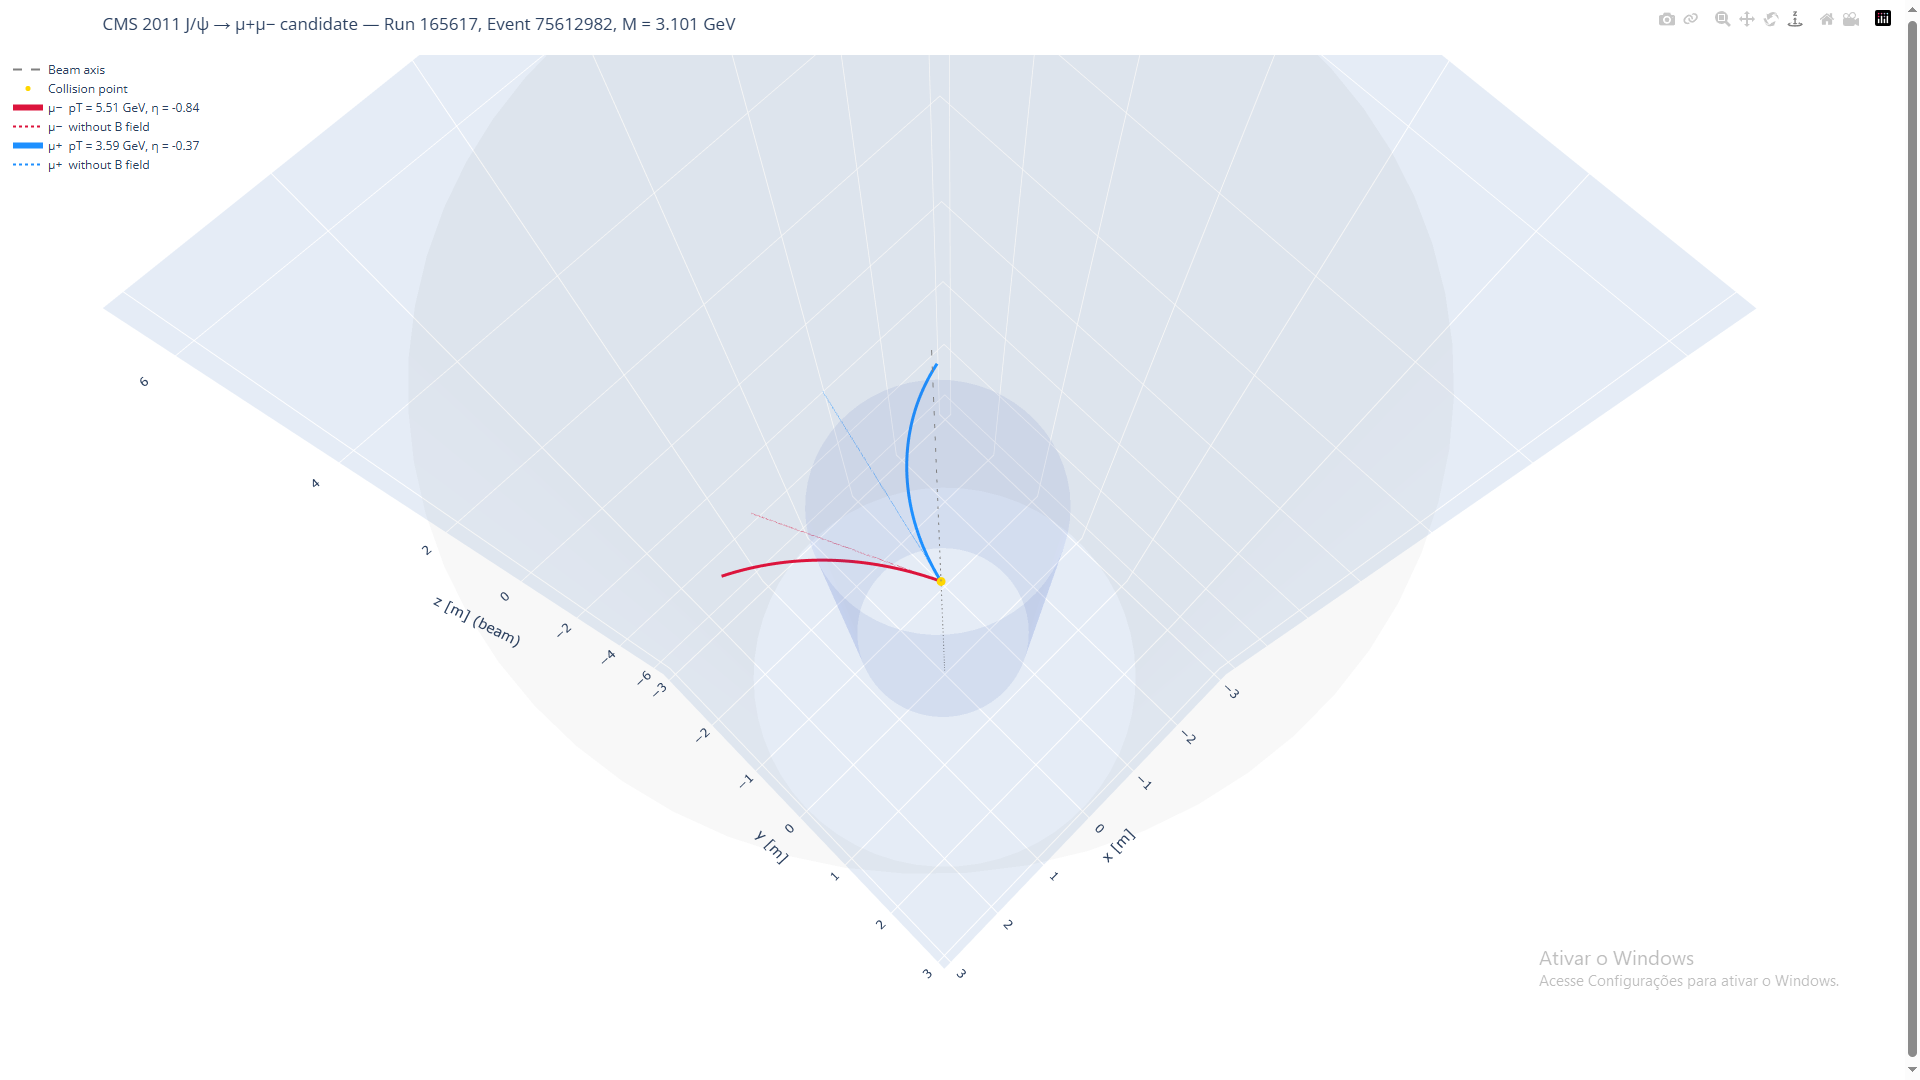
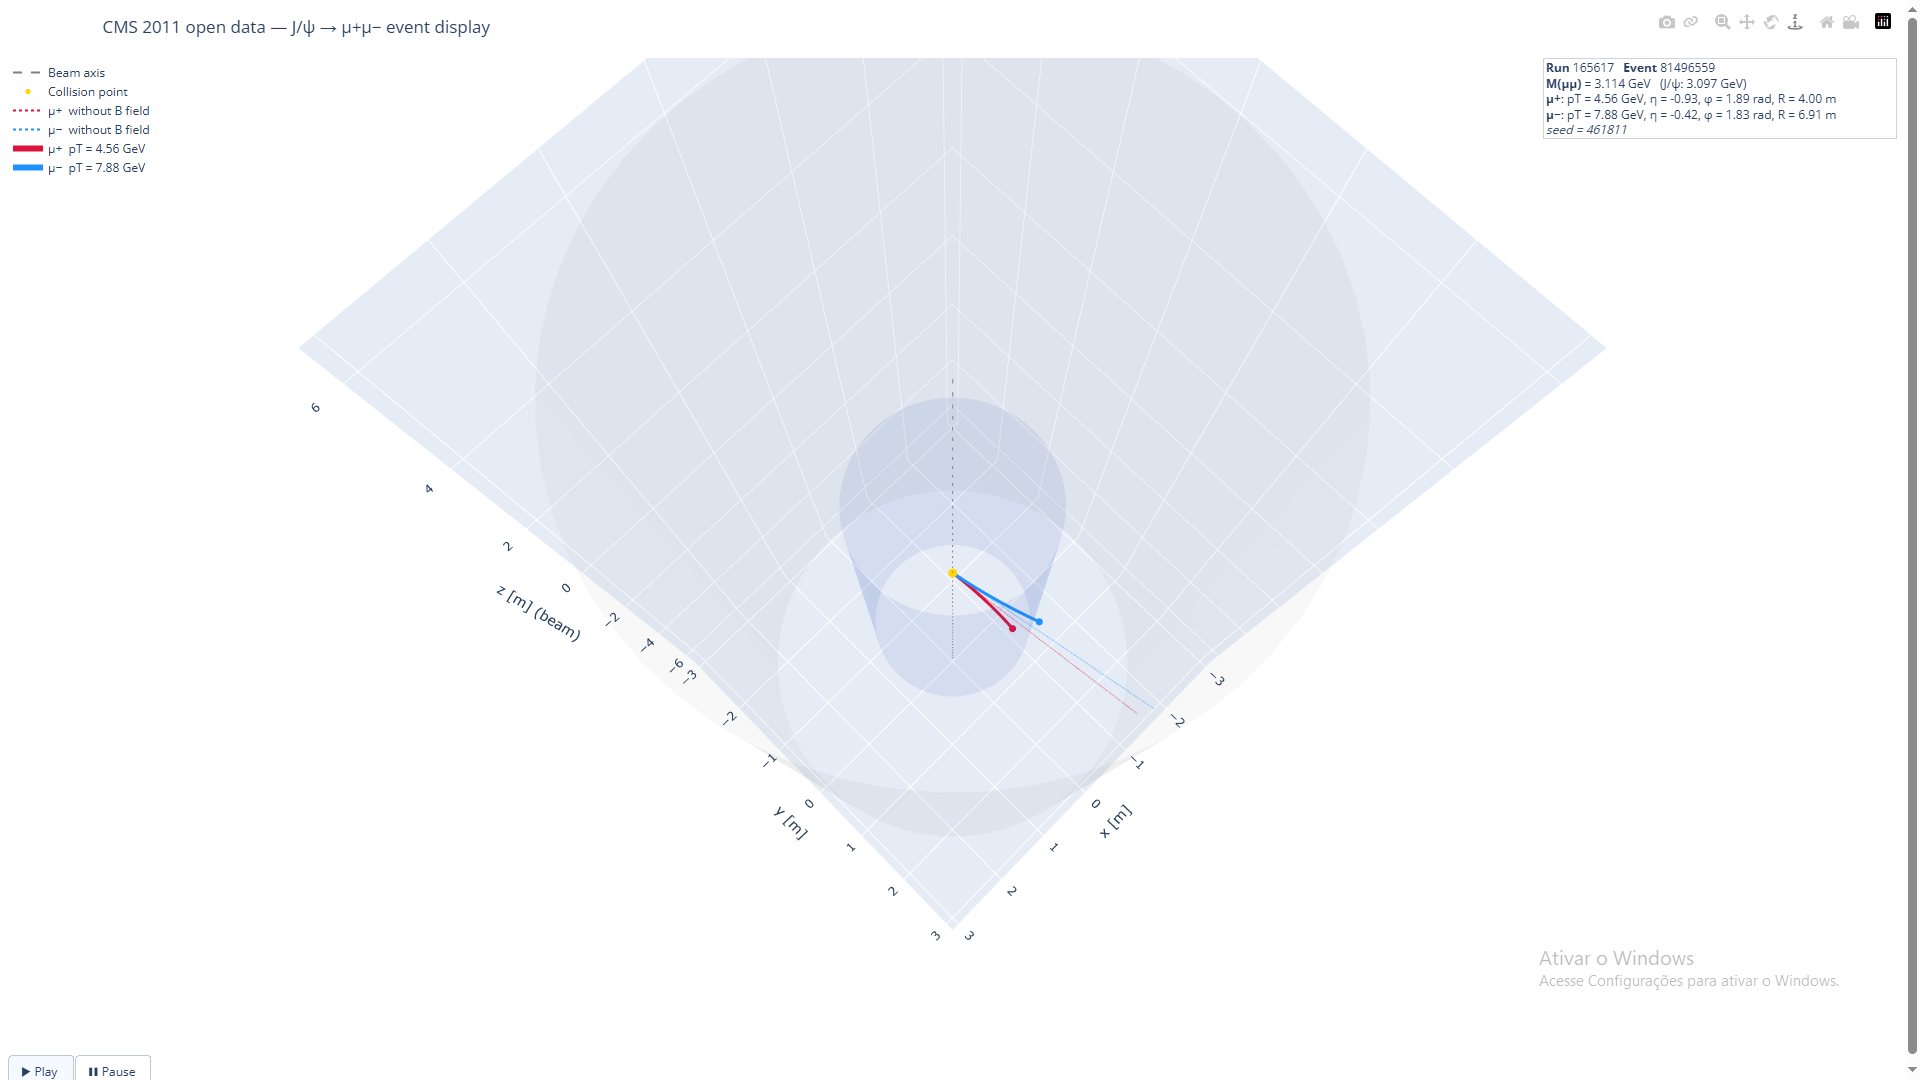
1

diff --git a/README.md b/README.md
@@ -67,7 +67,7 @@ Full numbers: [`results/validation.txt`](results/validation.txt).
 
 ### 3D event display
 
-![J/psi event display](figures/event_display_jpsi.png)
+![img.png](img.png)
 
 Each run picks a **random J/ψ candidate** and draws it in an interactive page:
 
